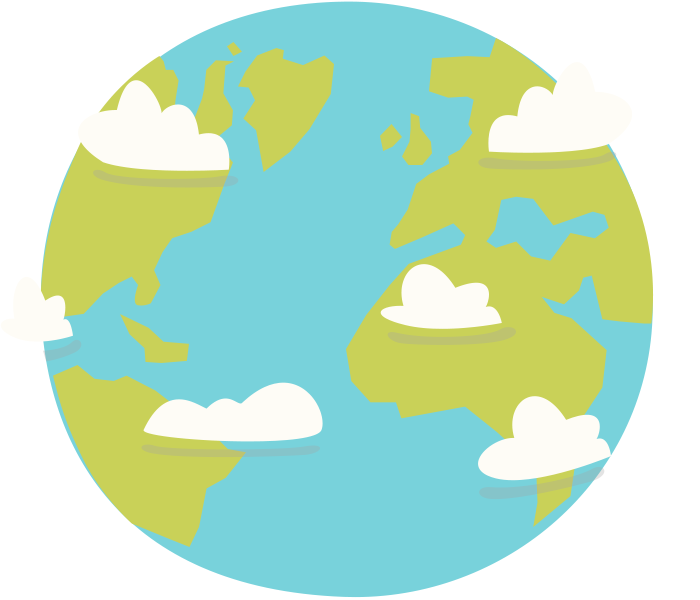
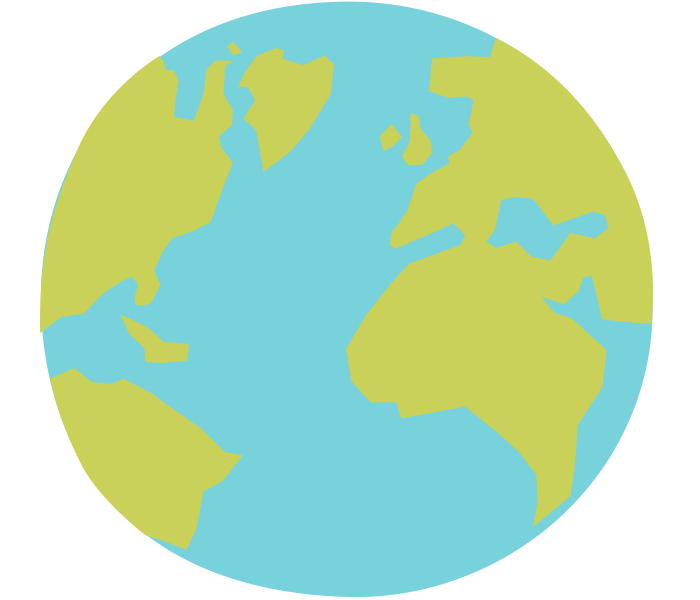
Animated the earth and clouds

diff --git a/static/style.css b/static/style.css
@@ -18,6 +18,9 @@ body {
 }
 
 /* Navbar */
+.navbar {
+  margin-bottom: 0;
+}
 .navbar a#sTop {
   font-family: 'Mikado Bold', Gotham, sans-serif;
   color: #94B9D1;
@@ -42,12 +45,10 @@ body {
 /* Lead */
 .lead {
   background-color: #081F35;
-  background-image: url(img/earth.png);
-  background-repeat: no-repeat;
-  background-position: 50% 185%;
   color: white;
   padding: 100px 0 250px;
   margin-bottom: 0;
+  overflow: hidden;
 }
 .lead #logo img {
   display: block;
@@ -75,9 +76,232 @@ body {
   background-color: #C9D158;
 }
 
+/* Earth */
+.earth-container * {
+  position: absolute;
+  display: block;
+}
+.earth-container {
+    bottom: -150px;
+    position: relative;
+    left: -15px;
+}
+.earth {
+  top: 109%;
+  left: 21%;
+}
+#cloud1 {
+  top: 50px;
+  left: 727px;
+}
+#cloud1 {
+  -moz-animation-name: cloud-1-keyframes;
+  -moz-animation-duration: 10000ms;
+  -moz-animation-delay: 0ms;
+  -moz-animation-fill-mode: forwards;
+  -moz-animation-timing-function: linear;
+  -moz-animation-iteration-count: infinite;
+  -moz-transform-origin: 0 0;
+  -ms-animation-name: cloud-1-keyframes;
+  -ms-animation-duration: 10000ms;
+  -ms-animation-delay: 0ms;
+  -ms-animation-fill-mode: forwards;
+  -ms-animation-timing-function: linear;
+  -ms-animation-iteration-count: infinite;
+  -ms-transform-origin: 0 0;
+  -o-animation-name: cloud-1-keyframes;
+  -o-animation-duration: 10000ms;
+  -o-animation-delay: 0ms;
+  -o-animation-fill-mode: forwards;
+  -o-animation-timing-function: linear;
+  -o-animation-iteration-count: infinite;
+  -o-transform-origin: 0 0;
+  -webkit-animation-name: cloud-1-keyframes;
+  -webkit-animation-duration: 10000ms;
+  -webkit-animation-delay: 0ms;
+  -webkit-animation-fill-mode: forwards;
+  -webkit-animation-timing-function: linear;
+  -webkit-animation-iteration-count: infinite;
+  -webkit-transform-origin: 0 0;
+  animation-name: cloud-1-keyframes;
+  animation-duration: 10000ms;
+  animation-delay: 0ms;
+  animation-fill-mode: forwards;
+  animation-timing-function: linear;
+  animation-iteration-count: infinite;
+  transform-origin: 0 0;
+}
+@-moz-keyframes cloud-1-keyframes {
+  0% {-moz-transform:translate(0px, 0px) rotateX(0deg) rotateY(0deg) rotateZ(0deg) translate(-50%, -50%);}
+  10% {-moz-transform:translate(7.2px, 0px) rotateX(0deg) rotateY(0deg) rotateZ(0deg) translate(-50%, -50%);}
+  20% {-moz-transform:translate(12.8px, 0px) rotateX(0deg) rotateY(0deg) rotateZ(0deg) translate(-50%, -50%);}
+  30% {-moz-transform:translate(16.8px, 0px) rotateX(0deg) rotateY(0deg) rotateZ(0deg) translate(-50%, -50%);}
+  40% {-moz-transform:translate(19.2px, 0px) rotateX(0deg) rotateY(0deg) rotateZ(0deg) translate(-50%, -50%);}
+  50% {-moz-transform:translate(20px, 0px) rotateX(0deg) rotateY(0deg) rotateZ(0deg) translate(-50%, -50%);}
+  60% {-moz-transform:translate(19.0211px, 0px) rotateX(0deg) rotateY(0deg) rotateZ(0deg) translate(-50%, -50%);}
+  70% {-moz-transform:translate(16.1803px, 0px) rotateX(0deg) rotateY(0deg) rotateZ(0deg) translate(-50%, -50%);}
+  80% {-moz-transform:translate(11.7557px, 0px) rotateX(0deg) rotateY(0deg) rotateZ(0deg) translate(-50%, -50%);}
+  90% {-moz-transform:translate(6.1803px, 0px) rotateX(0deg) rotateY(0deg) rotateZ(0deg) translate(-50%, -50%);}
+  100% {-moz-transform:translate(0px, 0px) rotateX(0deg) rotateY(0deg) rotateZ(0deg) translate(-50%, -50%);}
+}
+@-ms-keyframes cloud-1-keyframes {
+  0% {-ms-transform:translate(0px, 0px) rotateX(0deg) rotateY(0deg) rotateZ(0deg) translate(-50%, -50%);}
+  10% {-ms-transform:translate(7.2px, 0px) rotateX(0deg) rotateY(0deg) rotateZ(0deg) translate(-50%, -50%);}
+  20% {-ms-transform:translate(12.8px, 0px) rotateX(0deg) rotateY(0deg) rotateZ(0deg) translate(-50%, -50%);}
+  30% {-ms-transform:translate(16.8px, 0px) rotateX(0deg) rotateY(0deg) rotateZ(0deg) translate(-50%, -50%);}
+  40% {-ms-transform:translate(19.2px, 0px) rotateX(0deg) rotateY(0deg) rotateZ(0deg) translate(-50%, -50%);}
+  50% {-ms-transform:translate(20px, 0px) rotateX(0deg) rotateY(0deg) rotateZ(0deg) translate(-50%, -50%);}
+  60% {-ms-transform:translate(19.0211px, 0px) rotateX(0deg) rotateY(0deg) rotateZ(0deg) translate(-50%, -50%);}
+  70% {-ms-transform:translate(16.1803px, 0px) rotateX(0deg) rotateY(0deg) rotateZ(0deg) translate(-50%, -50%);}
+  80% {-ms-transform:translate(11.7557px, 0px) rotateX(0deg) rotateY(0deg) rotateZ(0deg) translate(-50%, -50%);}
+  90% {-ms-transform:translate(6.1803px, 0px) rotateX(0deg) rotateY(0deg) rotateZ(0deg) translate(-50%, -50%);}
+  100% {-ms-transform:translate(0px, 0px) rotateX(0deg) rotateY(0deg) rotateZ(0deg) translate(-50%, -50%);}
+}
+@-o-keyframes cloud-1-keyframes {
+  0% {-o-transform:translate(0px, 0px) rotateX(0deg) rotateY(0deg) rotateZ(0deg) translate(-50%, -50%);}
+  10% {-o-transform:translate(7.2px, 0px) rotateX(0deg) rotateY(0deg) rotateZ(0deg) translate(-50%, -50%);}
+  20% {-o-transform:translate(12.8px, 0px) rotateX(0deg) rotateY(0deg) rotateZ(0deg) translate(-50%, -50%);}
+  30% {-o-transform:translate(16.8px, 0px) rotateX(0deg) rotateY(0deg) rotateZ(0deg) translate(-50%, -50%);}
+  40% {-o-transform:translate(19.2px, 0px) rotateX(0deg) rotateY(0deg) rotateZ(0deg) translate(-50%, -50%);}
+  50% {-o-transform:translate(20px, 0px) rotateX(0deg) rotateY(0deg) rotateZ(0deg) translate(-50%, -50%);}
+  60% {-o-transform:translate(19.0211px, 0px) rotateX(0deg) rotateY(0deg) rotateZ(0deg) translate(-50%, -50%);}
+  70% {-o-transform:translate(16.1803px, 0px) rotateX(0deg) rotateY(0deg) rotateZ(0deg) translate(-50%, -50%);}
+  80% {-o-transform:translate(11.7557px, 0px) rotateX(0deg) rotateY(0deg) rotateZ(0deg) translate(-50%, -50%);}
+  90% {-o-transform:translate(6.1803px, 0px) rotateX(0deg) rotateY(0deg) rotateZ(0deg) translate(-50%, -50%);}
+  100% {-o-transform:translate(0px, 0px) rotateX(0deg) rotateY(0deg) rotateZ(0deg) translate(-50%, -50%);}
+}
+@-webkit-keyframes cloud-1-keyframes {
+  0% {-webkit-transform:translate(0px, 0px) rotateX(0deg) rotateY(0deg) rotateZ(0deg) translate(-50%, -50%);}
+  10% {-webkit-transform:translate(7.2px, 0px) rotateX(0deg) rotateY(0deg) rotateZ(0deg) translate(-50%, -50%);}
+  20% {-webkit-transform:translate(12.8px, 0px) rotateX(0deg) rotateY(0deg) rotateZ(0deg) translate(-50%, -50%);}
+  30% {-webkit-transform:translate(16.8px, 0px) rotateX(0deg) rotateY(0deg) rotateZ(0deg) translate(-50%, -50%);}
+  40% {-webkit-transform:translate(19.2px, 0px) rotateX(0deg) rotateY(0deg) rotateZ(0deg) translate(-50%, -50%);}
+  50% {-webkit-transform:translate(20px, 0px) rotateX(0deg) rotateY(0deg) rotateZ(0deg) translate(-50%, -50%);}
+  60% {-webkit-transform:translate(19.0211px, 0px) rotateX(0deg) rotateY(0deg) rotateZ(0deg) translate(-50%, -50%);}
+  70% {-webkit-transform:translate(16.1803px, 0px) rotateX(0deg) rotateY(0deg) rotateZ(0deg) translate(-50%, -50%);}
+  80% {-webkit-transform:translate(11.7557px, 0px) rotateX(0deg) rotateY(0deg) rotateZ(0deg) translate(-50%, -50%);}
+  90% {-webkit-transform:translate(6.1803px, 0px) rotateX(0deg) rotateY(0deg) rotateZ(0deg) translate(-50%, -50%);}
+  100% {-webkit-transform:translate(0px, 0px) rotateX(0deg) rotateY(0deg) rotateZ(0deg) translate(-50%, -50%);}
+}
+@keyframes cloud-1-keyframes {
+  0% {transform:translate(0px, 0px) rotateX(0deg) rotateY(0deg) rotateZ(0deg) translate(-50%, -50%);}
+  10% {transform:translate(7.2px, 0px) rotateX(0deg) rotateY(0deg) rotateZ(0deg) translate(-50%, -50%);}
+  20% {transform:translate(12.8px, 0px) rotateX(0deg) rotateY(0deg) rotateZ(0deg) translate(-50%, -50%);}
+  30% {transform:translate(16.8px, 0px) rotateX(0deg) rotateY(0deg) rotateZ(0deg) translate(-50%, -50%);}
+  40% {transform:translate(19.2px, 0px) rotateX(0deg) rotateY(0deg) rotateZ(0deg) translate(-50%, -50%);}
+  50% {transform:translate(20px, 0px) rotateX(0deg) rotateY(0deg) rotateZ(0deg) translate(-50%, -50%);}
+  60% {transform:translate(19.0211px, 0px) rotateX(0deg) rotateY(0deg) rotateZ(0deg) translate(-50%, -50%);}
+  70% {transform:translate(16.1803px, 0px) rotateX(0deg) rotateY(0deg) rotateZ(0deg) translate(-50%, -50%);}
+  80% {transform:translate(11.7557px, 0px) rotateX(0deg) rotateY(0deg) rotateZ(0deg) translate(-50%, -50%);}
+  90% {transform:translate(6.1803px, 0px) rotateX(0deg) rotateY(0deg) rotateZ(0deg) translate(-50%, -50%);}
+  100% {transform:translate(0px, 0px) rotateX(0deg) rotateY(0deg) rotateZ(0deg) translate(-50%, -50%);}
+}
 
-.lead .btn.startup {
-  background-color: rgb(255, 240, 107);
+#cloud2 {
+  top: 86px;
+  left: 437px;
+}
+#cloud2 {
+  -moz-animation-name: cloud-2-keyframes;
+  -moz-animation-duration: 10000ms;
+  -moz-animation-delay: 0ms;
+  -moz-animation-fill-mode: forwards;
+  -moz-animation-timing-function: linear;
+  -moz-animation-iteration-count: infinite;
+  -moz-transform-origin: 0 0;
+  -ms-animation-name: cloud-2-keyframes;
+  -ms-animation-duration: 10000ms;
+  -ms-animation-delay: 0ms;
+  -ms-animation-fill-mode: forwards;
+  -ms-animation-timing-function: linear;
+  -ms-animation-iteration-count: infinite;
+  -ms-transform-origin: 0 0;
+  -o-animation-name: cloud-2-keyframes;
+  -o-animation-duration: 10000ms;
+  -o-animation-delay: 0ms;
+  -o-animation-fill-mode: forwards;
+  -o-animation-timing-function: linear;
+  -o-animation-iteration-count: infinite;
+  -o-transform-origin: 0 0;
+  -webkit-animation-name: cloud-2-keyframes;
+  -webkit-animation-duration: 10000ms;
+  -webkit-animation-delay: 0ms;
+  -webkit-animation-fill-mode: forwards;
+  -webkit-animation-timing-function: linear;
+  -webkit-animation-iteration-count: infinite;
+  -webkit-transform-origin: 0 0;
+  animation-name: cloud-2-keyframes;
+  animation-duration: 10000ms;
+  animation-delay: 0ms;
+  animation-fill-mode: forwards;
+  animation-timing-function: linear;
+  animation-iteration-count: infinite;
+  transform-origin: 0 0;
+}
+@-moz-keyframes cloud-2-keyframes {
+  0% {-moz-transform:translate(0px, 0px) rotateX(0deg) rotateY(0deg) rotateZ(0deg) translate(-50%, -50%);}
+  10% {-moz-transform:translate(7.2px, 0px) rotateX(0deg) rotateY(0deg) rotateZ(0deg) translate(-50%, -50%);}
+  20% {-moz-transform:translate(12.8px, 0px) rotateX(0deg) rotateY(0deg) rotateZ(0deg) translate(-50%, -50%);}
+  30% {-moz-transform:translate(16.8px, 0px) rotateX(0deg) rotateY(0deg) rotateZ(0deg) translate(-50%, -50%);}
+  40% {-moz-transform:translate(19.2px, 0px) rotateX(0deg) rotateY(0deg) rotateZ(0deg) translate(-50%, -50%);}
+  50% {-moz-transform:translate(20px, 0px) rotateX(0deg) rotateY(0deg) rotateZ(0deg) translate(-50%, -50%);}
+  60% {-moz-transform:translate(19.0211px, 0px) rotateX(0deg) rotateY(0deg) rotateZ(0deg) translate(-50%, -50%);}
+  70% {-moz-transform:translate(16.1803px, 0px) rotateX(0deg) rotateY(0deg) rotateZ(0deg) translate(-50%, -50%);}
+  80% {-moz-transform:translate(11.7557px, 0px) rotateX(0deg) rotateY(0deg) rotateZ(0deg) translate(-50%, -50%);}
+  90% {-moz-transform:translate(6.1803px, 0px) rotateX(0deg) rotateY(0deg) rotateZ(0deg) translate(-50%, -50%);}
+  100% {-moz-transform:translate(0px, 0px) rotateX(0deg) rotateY(0deg) rotateZ(0deg) translate(-50%, -50%);}
+}
+@-ms-keyframes cloud-2-keyframes {
+  0% {-ms-transform:translate(0px, 0px) rotateX(0deg) rotateY(0deg) rotateZ(0deg) translate(-50%, -50%);}
+  10% {-ms-transform:translate(7.2px, 0px) rotateX(0deg) rotateY(0deg) rotateZ(0deg) translate(-50%, -50%);}
+  20% {-ms-transform:translate(12.8px, 0px) rotateX(0deg) rotateY(0deg) rotateZ(0deg) translate(-50%, -50%);}
+  30% {-ms-transform:translate(16.8px, 0px) rotateX(0deg) rotateY(0deg) rotateZ(0deg) translate(-50%, -50%);}
+  40% {-ms-transform:translate(19.2px, 0px) rotateX(0deg) rotateY(0deg) rotateZ(0deg) translate(-50%, -50%);}
+  50% {-ms-transform:translate(20px, 0px) rotateX(0deg) rotateY(0deg) rotateZ(0deg) translate(-50%, -50%);}
+  60% {-ms-transform:translate(19.0211px, 0px) rotateX(0deg) rotateY(0deg) rotateZ(0deg) translate(-50%, -50%);}
+  70% {-ms-transform:translate(16.1803px, 0px) rotateX(0deg) rotateY(0deg) rotateZ(0deg) translate(-50%, -50%);}
+  80% {-ms-transform:translate(11.7557px, 0px) rotateX(0deg) rotateY(0deg) rotateZ(0deg) translate(-50%, -50%);}
+  90% {-ms-transform:translate(6.1803px, 0px) rotateX(0deg) rotateY(0deg) rotateZ(0deg) translate(-50%, -50%);}
+  100% {-ms-transform:translate(0px, 0px) rotateX(0deg) rotateY(0deg) rotateZ(0deg) translate(-50%, -50%);}
+}
+@-o-keyframes cloud-2-keyframes {
+  0% {-o-transform:translate(0px, 0px) rotateX(0deg) rotateY(0deg) rotateZ(0deg) translate(-50%, -50%);}
+  10% {-o-transform:translate(7.2px, 0px) rotateX(0deg) rotateY(0deg) rotateZ(0deg) translate(-50%, -50%);}
+  20% {-o-transform:translate(12.8px, 0px) rotateX(0deg) rotateY(0deg) rotateZ(0deg) translate(-50%, -50%);}
+  30% {-o-transform:translate(16.8px, 0px) rotateX(0deg) rotateY(0deg) rotateZ(0deg) translate(-50%, -50%);}
+  40% {-o-transform:translate(19.2px, 0px) rotateX(0deg) rotateY(0deg) rotateZ(0deg) translate(-50%, -50%);}
+  50% {-o-transform:translate(20px, 0px) rotateX(0deg) rotateY(0deg) rotateZ(0deg) translate(-50%, -50%);}
+  60% {-o-transform:translate(19.0211px, 0px) rotateX(0deg) rotateY(0deg) rotateZ(0deg) translate(-50%, -50%);}
+  70% {-o-transform:translate(16.1803px, 0px) rotateX(0deg) rotateY(0deg) rotateZ(0deg) translate(-50%, -50%);}
+  80% {-o-transform:translate(11.7557px, 0px) rotateX(0deg) rotateY(0deg) rotateZ(0deg) translate(-50%, -50%);}
+  90% {-o-transform:translate(6.1803px, 0px) rotateX(0deg) rotateY(0deg) rotateZ(0deg) translate(-50%, -50%);}
+  100% {-o-transform:translate(0px, 0px) rotateX(0deg) rotateY(0deg) rotateZ(0deg) translate(-50%, -50%);}
+}
+@-webkit-keyframes cloud-2-keyframes {
+  0% {-webkit-transform:translate(0px, 0px) rotateX(0deg) rotateY(0deg) rotateZ(0deg) translate(-50%, -50%);}
+  10% {-webkit-transform:translate(7.2px, 0px) rotateX(0deg) rotateY(0deg) rotateZ(0deg) translate(-50%, -50%);}
+  20% {-webkit-transform:translate(12.8px, 0px) rotateX(0deg) rotateY(0deg) rotateZ(0deg) translate(-50%, -50%);}
+  30% {-webkit-transform:translate(16.8px, 0px) rotateX(0deg) rotateY(0deg) rotateZ(0deg) translate(-50%, -50%);}
+  40% {-webkit-transform:translate(19.2px, 0px) rotateX(0deg) rotateY(0deg) rotateZ(0deg) translate(-50%, -50%);}
+  50% {-webkit-transform:translate(20px, 0px) rotateX(0deg) rotateY(0deg) rotateZ(0deg) translate(-50%, -50%);}
+  60% {-webkit-transform:translate(19.0211px, 0px) rotateX(0deg) rotateY(0deg) rotateZ(0deg) translate(-50%, -50%);}
+  70% {-webkit-transform:translate(16.1803px, 0px) rotateX(0deg) rotateY(0deg) rotateZ(0deg) translate(-50%, -50%);}
+  80% {-webkit-transform:translate(11.7557px, 0px) rotateX(0deg) rotateY(0deg) rotateZ(0deg) translate(-50%, -50%);}
+  90% {-webkit-transform:translate(6.1803px, 0px) rotateX(0deg) rotateY(0deg) rotateZ(0deg) translate(-50%, -50%);}
+  100% {-webkit-transform:translate(0px, 0px) rotateX(0deg) rotateY(0deg) rotateZ(0deg) translate(-50%, -50%);}
+}
+@keyframes cloud-2-keyframes {
+  0% {transform:translate(0px, 0px) rotateX(0deg) rotateY(0deg) rotateZ(0deg) translate(-50%, -50%);}
+  10% {transform:translate(7.2px, 0px) rotateX(0deg) rotateY(0deg) rotateZ(0deg) translate(-50%, -50%);}
+  20% {transform:translate(12.8px, 0px) rotateX(0deg) rotateY(0deg) rotateZ(0deg) translate(-50%, -50%);}
+  30% {transform:translate(16.8px, 0px) rotateX(0deg) rotateY(0deg) rotateZ(0deg) translate(-50%, -50%);}
+  40% {transform:translate(19.2px, 0px) rotateX(0deg) rotateY(0deg) rotateZ(0deg) translate(-50%, -50%);}
+  50% {transform:translate(20px, 0px) rotateX(0deg) rotateY(0deg) rotateZ(0deg) translate(-50%, -50%);}
+  60% {transform:translate(19.0211px, 0px) rotateX(0deg) rotateY(0deg) rotateZ(0deg) translate(-50%, -50%);}
+  70% {transform:translate(16.1803px, 0px) rotateX(0deg) rotateY(0deg) rotateZ(0deg) translate(-50%, -50%);}
+  80% {transform:translate(11.7557px, 0px) rotateX(0deg) rotateY(0deg) rotateZ(0deg) translate(-50%, -50%);}
+  90% {transform:translate(6.1803px, 0px) rotateX(0deg) rotateY(0deg) rotateZ(0deg) translate(-50%, -50%);}
+  100% {transform:translate(0px, 0px) rotateX(0deg) rotateY(0deg) rotateZ(0deg) translate(-50%, -50%);}
 }
 
 /* Process */

diff --git a/static/index.html b/static/index.html
@@ -29,6 +29,11 @@
             <h1 class="heading wow bounceInUp">We are Webnified.</h1>
             <section class="copy wow fadeInLeft">Using Rocket-Computer-Science-Machine-Learning-Whatsoever Innovative Technology, We help build your business, community, idea or startup grow!</section>
             <section class="call-to-action col-lg-12"><a href="#contact" class="btn business wow fadeInUp" data-wow-duration="1s" data-wow-delay="1.3s">Let's Start!</a></section>
+            <section class="earth-container wow fadeInUp" data-wow-duration="2s" data-wow-delay="1.5s">
+              <img src="img/earth.png" alt="Little humans lives here" class="earth">
+              <img src="img/cloud-2.png" alt="Cute little cloud :)" id="cloud2" class="cloud">
+              <img src="img/cloud-1.png" alt="Another cute little cloud :D" id="cloud1" class="cloud">
+            </section>
           </section>
         </section>
       </section> 
@@ -199,20 +204,20 @@
                 <li class="hero kevin wow fadeInLeft" data-wow-duration="1s" data-wow-delay="0.5s">
                   <a href="#">
                     <img src="img/team/kevin.png" alt="Kevin">
-                  <section class="profile">
+                  <section class="profile wow fadeInUp">
                     <span class="name">Kevin</span>
-                    <span class="position">A+ on Drawing</span>
+                    <span class="position wow bounceInDown">A+ on Drawing</span>
                   </section>
                 </a>
               </li>
-                <li class="hero edsil wow fadeInRight" data-wow-duration="1s" data-wow-delay="0.3s"><a href="#"><img src="img/team/edsil.png" alt="Edsil"><section class="profile"><span class="name">Edsil</span><span class="position">Power Preacher</span></section></a>
+                <li class="hero edsil wow fadeInRight" data-wow-duration="1s" data-wow-delay="0.3s"><a href="#"><img src="img/team/edsil.png" alt="Edsil"><section class="profile wow fadeInUp"><span class="name">Edsil</span><span class="position wow bounceInDown">Power Preacher</span></section></a>
   </li>
-                <li class="hero geoff wow bounceInLeft" data-wow-duration="1s" data-wow-delay="0.6s"><a href="#"><img src="img/team/geof.png" alt="Geof"><section class="profile"><span class="name">Geoff</span><span class="position">Playboy Programmer</span></section></a></li>
-                <li class="hero raven wow bounceInRight" data-wow-duration="1s" data-wow-delay="0.4s"><a href="#"><img src="img/team/raven.png" alt="Raven"><section class="profile"><span class="name">Raven</span><span class="position">Idea Overlord</span></section></a></li>
-                <li class="hero logi wow bounceInLeft" data-wow-duration="1s" data-wow-delay="0.8s"><a href="#"><img src="img/team/logi.png" alt="Logi"><section class="profile"><span class="name">Logi</span><span class="position">Ebil Creative Genius</span></section></a></li>
-                <li class="hero juls wow fadeInRight" data-wow-duration="1s" data-wow-delay="0.5s"><a href="#"><img src="img/team/juls.png" alt="Juls"><section class="profile"><span class="name">Juls</span><span class="position">Power Learner</span></section></a></li>
-                <li class="hero chiv wow fadeInLeft" data-wow-duration="1s" data-wow-delay="0.7s"><a href="#"><img src="img/team/chiv.png" alt="Chiv"><section class="profile"><span class="name">Chiv</span><span class="position">World Dominator</span></section></a></li>
-                <li class="hero dimful wow bounceInRight" data-wow-duration="1s" data-wow-delay="0.1s"><a href="#"><img src="img/team/dimful.png" alt="Dimful"><section class="profile"><span class="name">Dimful</span><span class="position">The Guitar Man</span></section></a></li>
+                <li class="hero geoff wow bounceInLeft" data-wow-duration="1s" data-wow-delay="0.6s"><a href="#"><img src="img/team/geof.png" alt="Geof"><section class="profile wow fadeInUp"><span class="name">Geoff</span><span class="position wow bounceInDown">Playboy Programmer</span></section></a></li>
+                <li class="hero raven wow bounceInRight" data-wow-duration="1s" data-wow-delay="0.4s"><a href="#"><img src="img/team/raven.png" alt="Raven"><section class="profile wow fadeInUp"><span class="name">Raven</span><span class="position wow bounceInDown">Idea Overlord</span></section></a></li>
+                <li class="hero logi wow bounceInLeft" data-wow-duration="1s" data-wow-delay="0.8s"><a href="#"><img src="img/team/logi.png" alt="Logi"><section class="profile wow fadeInUp"><span class="name">Logi</span><span class="position wow bounceInDown">Ebil Creative Genius</span></section></a></li>
+                <li class="hero juls wow fadeInRight" data-wow-duration="1s" data-wow-delay="0.5s"><a href="#"><img src="img/team/juls.png" alt="Juls"><section class="profile wow fadeInUp"><span class="name">Juls</span><span class="position wow bounceInDown">Power Learner</span></section></a></li>
+                <li class="hero chiv wow fadeInLeft" data-wow-duration="1s" data-wow-delay="0.7s"><a href="#"><img src="img/team/chiv.png" alt="Chiv"><section class="profile wow fadeInUp"><span class="name">Chiv</span><span class="position wow bounceInDown">World Dominator</span></section></a></li>
+                <li class="hero dimful wow bounceInRight" data-wow-duration="1s" data-wow-delay="0.1s"><a href="#"><img src="img/team/dimful.png" alt="Dimful"><section class="profile wow fadeInUp"><span class="name">Dimful</span><span class="position wow bounceInDown">The Guitar Man</span></section></a></li>
               </ul>
                </section> 
               </article>
